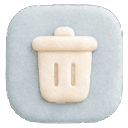
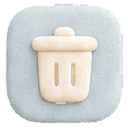
我的页列表图标去脏边：fringe 黑渗色去污+预乘 resize 重压同名覆盖 v8，管线根因同步修

diff --git a/miniapp/art/me-redesign/clean-icon-fringe.py b/miniapp/art/me-redesign/clean-icon-fringe.py
@@ -1,0 +1,87 @@
+"""BEN2 图标产物暗边去污:straight-alpha resize 的黑 RGB 渗色修复。
+
+根因:BEN2 输出透明区 RGB=(0,0,0),prepare/clean 两段的 LANCZOS resize 走
+straight-alpha(RGB 与 A 各自独立插值),透明邻点的黑 RGB 按权重混进半透明边
+像素,而 alpha 通道单独插值不匹配 → 边缘 1-3px 的半透明像素 straight RGB 发暗
+(实测 fringe 均值 ~(60-94)),贴白卡合成显灰黑脏边,drop-shadow 再投影更脏。
+
+做法(不改 alpha 形状,只修颜色):
+1. 颜色去污:a<SOLID 的像素 RGB 用 8 邻域迭代膨胀从 solid 区向外延展替换
+   (fringe 宽 <=3px,迭代 6 轮足够),alpha 原样保留;
+2. 预乘 resize:RGB*A 预乘后与 A 一起 LANCZOS 缩到 128px,再反预乘,
+   杜绝缩放再次渗黑;
+3. 产物 ref-*-defringe.png 供 compress-v9.mjs 同名覆盖包内 icon-me-*-v8.png。
+"""
+from pathlib import Path
+
+import numpy as np
+from PIL import Image
+
+ROOT = Path(__file__).resolve().parent
+FINAL = ROOT / 'prepared' / 'final'
+SOLID = 200          # alpha>=200 视为实色,作为颜色源
+DILATE_ROUNDS = 6    # fringe <=3px,6 轮 8 邻域膨胀足够覆盖
+TARGET = 128         # 与 d18fa54 包内尺寸一致(84rpx@3x≈131px,够用)
+
+
+def defringe_rgb(arr: np.ndarray) -> np.ndarray:
+    """半透明 fringe 的 RGB 用 solid 区颜色迭代膨胀替换,alpha 不动。"""
+    rgb = arr[:, :, :3].astype(np.float64)
+    a = arr[:, :, 3]
+    solid = a >= SOLID
+    fringe = (a > 0) & ~solid
+    if not fringe.any():
+        return arr
+    work = rgb.copy()
+    filled = solid.copy()
+    for _ in range(DILATE_ROUNDS):
+        todo = fringe & ~filled
+        if not todo.any():
+            break
+        acc = np.zeros_like(work)
+        cnt = np.zeros((work.shape[0], work.shape[1]))
+        for dy in (-1, 0, 1):
+            for dx in (-1, 0, 1):
+                if dy == 0 and dx == 0:
+                    continue
+                src = np.roll(np.roll(filled, dy, axis=0), dx, axis=1)
+                val = np.roll(np.roll(work, dy, axis=0), dx, axis=1)
+                acc += val * src[:, :, None]
+                cnt += src
+        grow = todo & (cnt > 0)
+        work[grow] = acc[grow] / cnt[grow][:, None]
+        filled |= grow
+    out = arr.copy()
+    out[:, :, :3] = work.round().clip(0, 255).astype(np.uint8)
+    left = int((fringe & ~filled).sum())
+    if left:
+        print(f'  warn: {left} fringe px unfilled, kept original RGB')
+    return out
+
+
+def pm_resize(im: Image.Image, size: int) -> Image.Image:
+    """预乘 alpha 的 LANCZOS 缩放,避免透明区黑 RGB 渗进软边。"""
+    arr = np.asarray(im).astype(np.float64) / 255.0
+    alpha = arr[:, :, 3]
+    prem = arr[:, :, :3] * alpha[:, :, None]
+    prem_img = Image.fromarray((prem * 255).round().astype(np.uint8), 'RGB')
+    alpha_img = Image.fromarray((alpha * 255).round().astype(np.uint8), 'L')
+    prem_r = np.asarray(prem_img.resize((size, size), Image.Resampling.LANCZOS)).astype(np.float64) / 255.0
+    alpha_r = np.asarray(alpha_img.resize((size, size), Image.Resampling.LANCZOS)).astype(np.float64) / 255.0
+    safe = np.maximum(alpha_r, 1e-4)[:, :, None]
+    rgb = np.where(alpha_r[:, :, None] > 1e-3, prem_r / safe, 0.0).clip(0, 1)
+    out = np.dstack([rgb, alpha_r[:, :, None]])
+    return Image.fromarray((out * 255).round().astype(np.uint8), 'RGBA')
+
+
+for path in sorted(FINAL.glob('ref-*-ben2.png')):
+    arr = np.array(Image.open(path).convert('RGBA'))
+    fringe = (arr[:, :, 3] > 0) & (arr[:, :, 3] < SOLID)
+    before = arr[:, :, :3][fringe].mean(axis=0).round(1) if fringe.any() else None
+    cleaned = defringe_rgb(arr)
+    after = cleaned[:, :, :3][fringe].mean(axis=0).round(1) if fringe.any() else None
+    icon = pm_resize(Image.fromarray(cleaned), TARGET)
+    out = FINAL / path.name.replace('-ben2.png', '-defringe.png')
+    icon.save(out)
+    print(f'{path.name}: fringe RGB {before} -> {after}, saved {out.name} {icon.size}')
+print('done')

diff --git a/miniapp/art/me-redesign/prepare-ben2-me.py b/miniapp/art/me-redesign/prepare-ben2-me.py
@@ -40,6 +40,50 @@ def ben2_cut(crop: Image.Image) -> Image.Image:
     rgba.putalpha(Image.fromarray(a))
     return rgba
 
+
+def pm_resize(im: Image.Image, size: tuple) -> Image.Image:
+    """预乘 alpha 的 LANCZOS 缩放。
+
+    BEN2 透明区 RGB=(0,0,0),straight-alpha 直缩会让黑 RGB 渗进半透明边,
+    贴白卡显灰黑脏边(me 页 v8 图标即此病,见 clean-icon-fringe.py 取证)。
+    """
+    arr = np.asarray(im).astype(np.float64) / 255.0
+    alpha = arr[:, :, 3]
+    prem = arr[:, :, :3] * alpha[:, :, None]
+    prem_r = np.asarray(Image.fromarray((prem * 255).round().astype(np.uint8), 'RGB').resize(size, Image.Resampling.LANCZOS)).astype(np.float64) / 255.0
+    alpha_r = np.asarray(Image.fromarray((alpha * 255).round().astype(np.uint8), 'L').resize(size, Image.Resampling.LANCZOS)).astype(np.float64) / 255.0
+    rgb = np.where(alpha_r[:, :, None] > 1e-3, prem_r / np.maximum(alpha_r, 1e-4)[:, :, None], 0.0).clip(0, 1)
+    out = np.dstack([rgb, alpha_r[:, :, None]])
+    return Image.fromarray((out * 255).round().astype(np.uint8), 'RGBA')
+
+
+def defringe_rgb(im: Image.Image, solid: int = 200, rounds: int = 6) -> Image.Image:
+    """半透明 fringe 的 RGB 用 solid 区颜色 8 邻域迭代膨胀替换,alpha 不动。"""
+    arr = np.array(im.convert('RGBA'))
+    rgb = arr[:, :, :3].astype(np.float64)
+    a = arr[:, :, 3]
+    fringe = (a > 0) & (a < solid)
+    filled = a >= solid
+    work = rgb.copy()
+    for _ in range(rounds):
+        todo = fringe & ~filled
+        if not todo.any():
+            break
+        acc = np.zeros_like(work)
+        cnt = np.zeros(work.shape[:2])
+        for dy in (-1, 0, 1):
+            for dx in (-1, 0, 1):
+                if dy == 0 and dx == 0:
+                    continue
+                src = np.roll(np.roll(filled, dy, axis=0), dx, axis=1)
+                acc += np.roll(np.roll(work, dy, axis=0), dx, axis=1) * src[:, :, None]
+                cnt += src
+        grow = todo & (cnt > 0)
+        work[grow] = acc[grow] / cnt[grow][:, None]
+        filled |= grow
+    arr[:, :, :3] = work.round().clip(0, 255).astype(np.uint8)
+    return Image.fromarray(arr, 'RGBA')
+
 # ---- 横幅:面板 bbox 外扩 16px(保烘焙投影渐变)→ BEN2 整块抠 ----
 # (实测 BEN2 把浅蓝大面板内部当背景误杀成半透明,横幅已改走几何蒙版 prepare-banner-geom.py;
 #  保留此段仅为留档,设 SKIP_BANNER=1 跳过)
@@ -68,8 +112,10 @@ for idx, (name, (x0, y0, x1, y1)) in enumerate(BOXES.items()):
     icon = icon.crop(bb)
     # 无 1.0 上限:主体统一放大到 94% 画幅(软陶图 LANCZOS 1.3x 内无损观感),
     # 否则 BEN2 抠到的软影宽度差会让各图标显示大小不一
+    # 先去污再预乘缩放:straight-alpha 直缩的黑渗边不再产生
+    icon = defringe_rgb(icon)
     scale = min(SUBJECT / icon.width, SUBJECT / icon.height)
-    icon = icon.resize((max(1, round(icon.width * scale)), max(1, round(icon.height * scale))), Image.Resampling.LANCZOS)
+    icon = pm_resize(icon, (max(1, round(icon.width * scale)), max(1, round(icon.height * scale))))
     canvas = Image.new('RGBA', (SQUARE, SQUARE), (0, 0, 0, 0))
     canvas.paste(icon, ((SQUARE - icon.width) // 2, (SQUARE - icon.height) // 2), icon)
     canvas.save(FINAL / f'ref-{name}-ben2.png')

diff --git a/miniapp/art/me-redesign/clean-icon-stray.py b/miniapp/art/me-redesign/clean-icon-stray.py
@@ -41,6 +41,18 @@ def largest_component(mask: np.ndarray) -> np.ndarray:
     return labels == biggest
 
 
+def pm_resize(im: Image.Image, size: tuple) -> Image.Image:
+    """预乘 alpha 的 LANCZOS 缩放,避免透明区黑 RGB 渗进软边显脏边。"""
+    arr = np.asarray(im).astype(np.float64) / 255.0
+    alpha = arr[:, :, 3]
+    prem = arr[:, :, :3] * alpha[:, :, None]
+    prem_r = np.asarray(Image.fromarray((prem * 255).round().astype(np.uint8), 'RGB').resize(size, Image.Resampling.LANCZOS)).astype(np.float64) / 255.0
+    alpha_r = np.asarray(Image.fromarray((alpha * 255).round().astype(np.uint8), 'L').resize(size, Image.Resampling.LANCZOS)).astype(np.float64) / 255.0
+    rgb = np.where(alpha_r[:, :, None] > 1e-3, prem_r / np.maximum(alpha_r, 1e-4)[:, :, None], 0.0).clip(0, 1)
+    out = np.dstack([rgb, alpha_r[:, :, None]])
+    return Image.fromarray((out * 255).round().astype(np.uint8), 'RGBA')
+
+
 for path in sorted(FINAL.glob('ref-*-ben2.png')):
     im = Image.open(path).convert('RGBA')
     arr = np.array(im)
@@ -71,10 +83,7 @@ for path in sorted(FINAL.glob('ref-*-ben2.png')):
     assert bb, f'{path.name}: empty after clean'
     icon = Image.fromarray(cleaned).crop(bb)
     scale = min(SUBJECT / icon.width, SUBJECT / icon.height)
-    icon = icon.resize(
-        (max(1, round(icon.width * scale)), max(1, round(icon.height * scale))),
-        Image.Resampling.LANCZOS,
-    )
+    icon = pm_resize(icon, (max(1, round(icon.width * scale)), max(1, round(icon.height * scale))))
     canvas = Image.new('RGBA', (SQUARE, SQUARE), (0, 0, 0, 0))
     canvas.paste(icon, ((SQUARE - icon.width) // 2, (SQUARE - icon.height) // 2), icon)
     canvas.save(path)

diff --git a/miniapp/src/pages/me/context.md b/miniapp/src/pages/me/context.md
@@ -1,5 +1,9 @@
 # 工作记录
 
+- 时间：2026-09-15 19:45
+- 原因：用户反馈列表图标边缘发脏。取证（_scratch_edge_diag.py）：BEN2 透明区 RGB=(0,0,0)，prepare/clean 两段 LANCZOS resize 走 straight-alpha，黑 RGB 渗进半透明边像素（fringe 实测 meanRGB ≈60-94、宽 1-3px），贴白卡合成显灰黑脏边，`.me-page__icon` 的 drop-shadow 再投影更脏；d18fa54 的 128px 降尺直缩再放大一次。
+- 修改：新增 `clean-icon-fringe.py`（fringe RGB 用 solid 区颜色 8 邻域迭代膨胀替换 + 预乘 alpha resize 到 128px，alpha 形状不动）；`compress-v9.mjs` 走 TinyPNG 同名覆盖包内 `icon-me-*-v8.png`（11-12.6KB/张）；`prepare-ben2-me.py`/`clean-icon-stray.py` 的 resize 改预乘、prepare 加 defringe 步杜根。修后 fringe meanRGB 回物件本色（蓝牌 ≈195/203/204、米牌 ≈232/201/166）。全量 568 测试过；build:weapp fresh dist 待开发者工具验收。
+
 - 时间：2026-09-10 19:00
 - 原因：用户反馈横幅仍偏暗；列表卡阴影带明显宽于横幅（slab 最宽 44rpx 模糊 vs image 仅 8rpx，差 4 倍）。
 - 修改：`--shadow-image` 四处（page/媒体查询/theme-light/theme-dark）改三层 drop-shadow（-2/5/4 → -4/12/14 → -7/24/30，宽度节奏对齐 --shadow-slab）；浅色横幅滤镜 1.09/0.55 → 1.14/0.75（保饱和提亮，防「发闷」）。另：工作区有三条未完成美术线的半成品改动（tarot/test/records 页引用未生成素材）阻塞构建，已 stash 暂存（stash@{0..2}），待素材生成后恢复。开发者工具 18:59 fresh dist 预览：横幅亮度舒适、上下阴影宽度一致。
